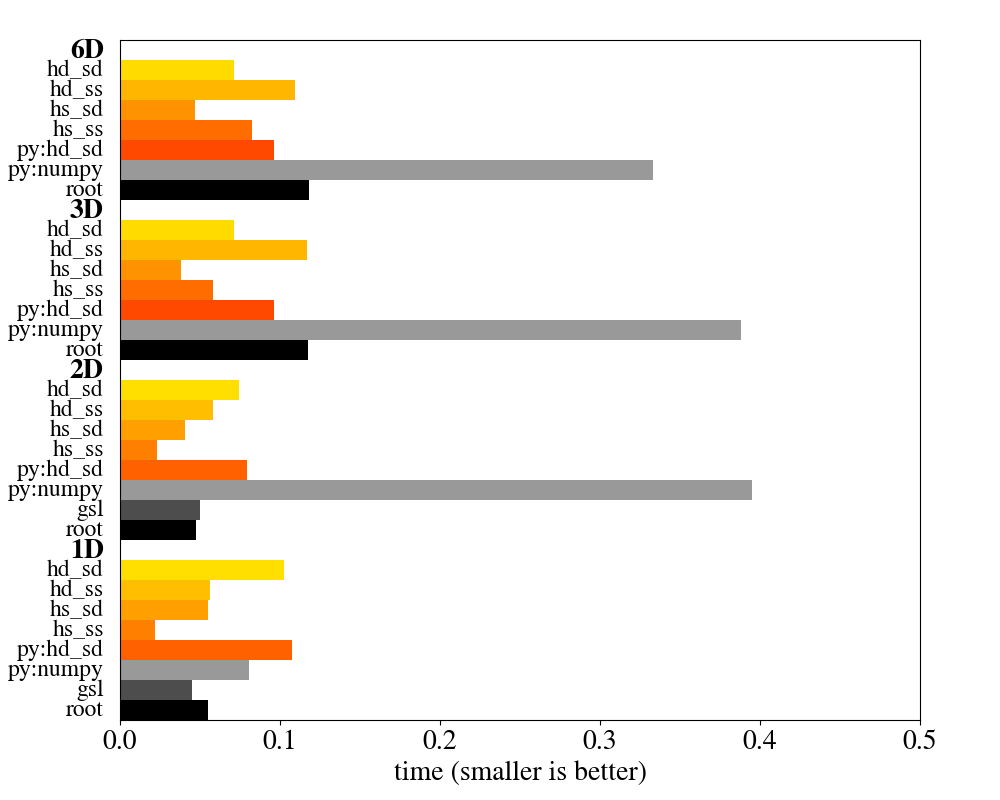
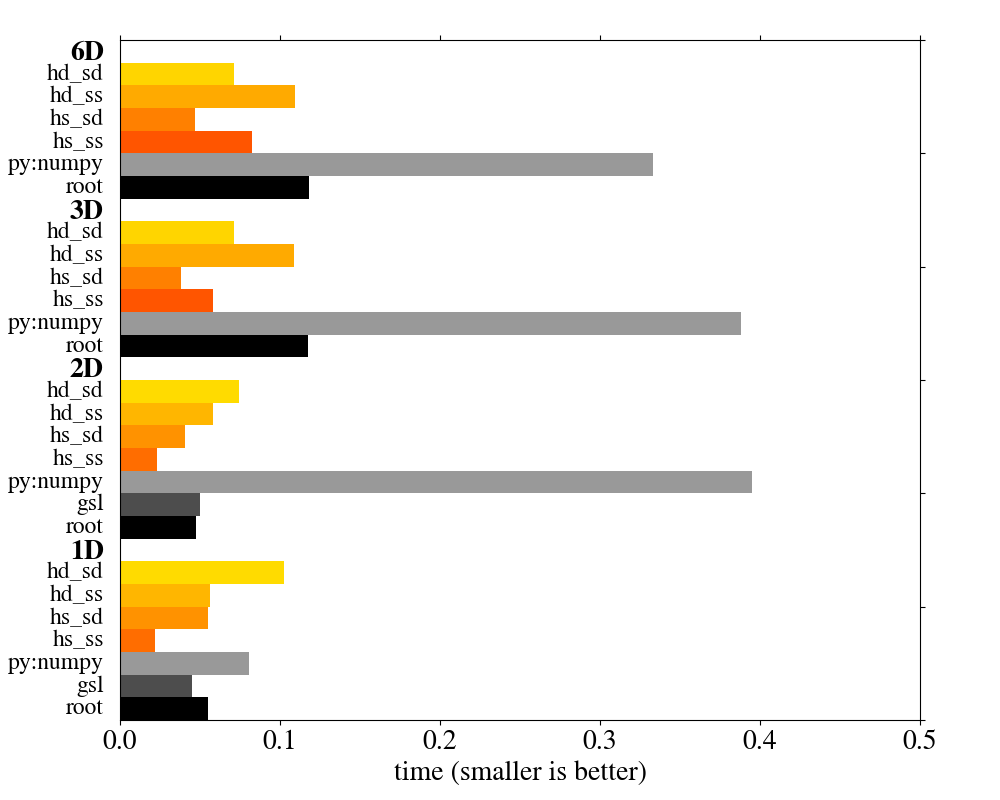
remove python

Changed region(s): [[0.0, 0.0312, 0.775, 0.9062]]

diff --git a/README.md b/README.md
@@ -12,13 +12,11 @@ develop | [![Build Status Travis](https://travis-ci.org/HDembinski/histogram.svg
 3. Visual Studio 14 2015
 
 
-This `C++11` open-source library provides a state-of-the-art multi-dimensional [histogram](https://en.wikipedia.org/wiki/Histogram) class for the professional statistician and everyone who needs to count things. The library is **header-only**, if you don't need the Python module. Check out the [full documentation](http://hdembinski.github.io/histogram/doc/html/).
+This `C++11` open-source library provides a state-of-the-art multi-dimensional [histogram](https://en.wikipedia.org/wiki/Histogram) class for the professional statistician and everyone who needs to count things. The library is **header-only**. Check out the [full documentation](http://hdembinski.github.io/histogram/doc/html/). [Python bindings for this library are available](https://github.com/hdembinski/histogram-python).
 
 The histogram is very customisable through policy classes, but the default policies were carefully designed so that most users don't need to customize anything. In the standard configuration, this library offers a unique safety guarantee not found elsewhere: bin counts *cannot overflow* or *be capped*. While being safe to use, the library also has a convenient interface, is memory conserving, and faster than other libraries (see benchmarks).
 
-The histogram class comes in two variants which share a common interface. The *static* variant uses compile-time information to provide maximum performance, at the cost of runtime flexibility and potentially larger executables. The *dynamic* variant is a bit slower, but configurable at run-time and may produce smaller executables. Python bindings for the latter are included, implemented with [Boost.Python](https://www.boost.org/doc/libs/release/libs/python/).
-
-The histogram supports value semantics. Histograms can be added and scaled. Move operations and trips over the language boundary from C++ to Python and back are cheap. Histogram instances can be streamed from/to files and pickled in Python. [Numpy](http://www.numpy.org) is supported to speed up operations in Python: histograms can be filled with Numpy arrays at high speed (in most cases several times faster than numpy's own histogram function) and are convertible into Numpy array views without copying data.
+The histogram class comes in two variants which share a common interface. The *static* variant uses compile-time information to provide maximum performance, at the cost of runtime flexibility and potentially larger executables. The *dynamic* variant is a bit slower, but configurable at run-time and may produce smaller executables. This variant allows one to make dynamic frontends, such as the [Python frontend](https://github.com/hdembinski/histogram-python).
 
 My goal is to submit this project to [Boost](http://www.boost.org), that's why it uses the Boost directory structure and namespace. The code is released under the [Boost Software License](http://www.boost.org/LICENSE_1_0.txt).
 
@@ -27,8 +25,8 @@ Check out the [full documentation](http://hdembinski.github.io/histogram/doc/htm
 ## Features
 
 * Multi-dimensional histogram
-* Simple and convenient interface in C++ and Python
-* Static and dynamic implementation in C++ with common interface
+* Simple and convenient interface
+* Static and dynamic implementation with common interface
 * High dynamic range using [Boost.Multiprecision](https://www.boost.org/doc/libs/release/libs/multiprecision/): Counters cannot overflow or be capped (+)
 * Better performance than other libraries (see benchmarks for details)
 * Fast compilation thanks to modern template meta-programming using [Boost.Mp11](https://www.boost.org/doc/libs/release/libs/mp11/)
@@ -42,8 +40,6 @@ Check out the [full documentation](http://hdembinski.github.io/histogram/doc/htm
 * Support for adding and scaling histograms
 * Support for custom allocators
 * Optional serialization based on [Boost.Serialization](https://www.boost.org/doc/libs/release/libs/serialization/)
-* Optional Python-bindings that work with [Python-2.7 to 3.6](http://www.python.org)  with [Boost.Python](https://www.boost.org/doc/libs/release/libs/python/)
-* Optional [Numpy](http://www.numpy.org) support
 
 (+) In the standard configuration, if you don't use weighted increments.
 (++) If you don't use weighted increments, variance tracking come at zero cost. If you use weighted increments, extra space is reserved internally to keep track of a variance counter per bin. The conversion happens automatically and transparently.
@@ -51,35 +47,28 @@ Check out the [full documentation](http://hdembinski.github.io/histogram/doc/htm
 ## Dependencies
 
 * [Boost >= 1.66](http://www.boost.org) *header-only installation*
-* Optional: [CMake >= 3.2](https://cmake.org) [Python >= 2.7](http://www.python.org) [Numpy](http://www.numpy.org) [Boost.Python](https://www.boost.org/doc/libs/release/libs/python/) [Boost.Serialization](https://www.boost.org/doc/libs/release/libs/serialization/) [Boost.Iostreams](https://www.boost.org/doc/libs/release/libs/iostreams/)
+* Optional: [CMake >= 3.5](https://cmake.org) [Boost.Serialization](https://www.boost.org/doc/libs/release/libs/serialization/)
 
 ## Build instructions
 
-If you don't need the Python module and don't want to run the tests, there is nothing to build. Just copy the content of the include folder to a place where your project can find it.
+If you don't want to run the tests, there is nothing to build. Just copy the content of the include folder to a place where your project can find it.
 
-The Python module and the tests can be build with `b2` from the Boost project or `cmake`. If you are not a Boost developer, use `cmake`.
+The tests can be build with `b2` from the Boost project or `cmake`. If you are not a Boost developer, use `cmake`.
 
 ```sh
 git clone https://github.com/HDembinski/histogram.git
 mkdir build && cd build
 cmake ../histogram/build
-make # or 'make install'
+make
 ```
 
-To run the tests, do `make test`.
+To run the tests, do `make test` or `ctest -v` for more output.
 
-### Trouble-shooting when compiling with Python support
+## Code example
 
-If you compile the library with Python support (the default, when you compile at all) and have several versions of Python installed, `cmake` will use the Python interpreter that is accessible as `python` on your system, and will use the headers and libraries of this version. Please make sure that this is the same version that Boost.Python and Boost.Numpy were compiled against, otherwise you will get strange errors during compilation and/or at runtime! You can force `cmake` to pick a specific Python interpreter with the PYTHON_EXECUTABLE flag. For example, to force the use of `python3`, do: `cmake ../histogram/build -DPYTHON_EXECUTABLE=python3`
+The following stripped-down example was taken from the [Getting started](http://hdembinski.github.io/histogram/doc/html/histogram/getting_started.html) section in the documentation. Have a look into the docs to see the full version with comments and more examples.
 
-If you installed Boost with `brew` on OSX and have trouble with the build, have a look at this [Stackoverflow](https://stackoverflow.com/questions/33653001/unable-to-link-against-boost-python-on-os-x) question.
-
-## Code examples
-
-For the full version of the following examples with explanations, see
-the [Getting started](http://hdembinski.github.io/histogram/doc/html/histogram/getting_started.html) section in the documentation.
-
-Example 1: Fill a 1d-histogram in C++
+Example: Fill a 1d-histogram
 
 ```cpp
 #include <boost/histogram.hpp>
@@ -119,41 +108,6 @@ int main() {
 }
 ```
 
-Example 2: Fill a 2d-histogram in Python with data in Numpy arrays
-
-```python
-    import histogram as bh
-    import numpy as np
-
-    h = bh.histogram(bh.axis.regular(10, 0.0, 5.0, "radius", uoflow=False),
-                     bh.axis.circular(4, 0.0, 2 * np.pi, "phi"))
-
-    x = np.random.randn(1000)             # generate x
-    y = np.random.randn(1000)             # generate y
-    radius = (x ** 2 + y ** 2) ** 0.5
-    phi = np.arctan2(y, x)
-
-    h(radius, phi)
-
-    # access histogram counts (no copy)
-    count_matrix = np.asarray(h)
-
-    print count_matrix
-
-    # program output:
-    #
-    # [[37 26 33 37]
-    #  [60 69 76 62]
-    #  [48 80 80 77]
-    #  [38 49 45 49]
-    #  [22 24 20 23]
-    #  [ 7  9  9  8]
-    #  [ 3  2  3  3]
-    #  [ 0  0  0  0]
-    #  [ 0  1  0  0]
-    #  [ 0  0  0  0]]
-```
-
 ## Benchmarks
 
 Thanks to meta-programming and dynamic memory management, this library is not only safer, more flexible and convenient to use, but also faster than the competition. In the plot below, its speed is compared to classes from the [GNU Scientific Library](https://www.gnu.org/software/gsl), the [ROOT framework from CERN](https://root.cern.ch), and to the histogram functions in [Numpy](http://www.numpy.org). The orange to red items are different compile-time configurations of the histogram in this library. More details on the benchmark are given in the [documentation](http://hdembinski.github.io/histogram/doc/html/histogram/benchmarks.html)
@@ -168,7 +122,7 @@ Thanks to meta-programming and dynamic memory management, this library is not on
 
 ## Rationale
 
-There is a lack of a widely-used free histogram class in C++. While it is easy to write a one-dimensional histogram, writing a general multi-dimensional histogram is not trivial. Even more so, if you want the histogram to be serializable and have Python-bindings and support Numpy. In high-energy physics, the [ROOT framework](https://root.cern.ch) from CERN is widely used. This histogram class is designed to be more convenient, flexible, and faster than the equivalent ROOT histograms. It is easy to integrate in your project without adding a huge dependency; you only need Boost. Finally, this library comes in a clean and modern C++11 design which follows the STL and Boost styles, and the general advice given by popular C++ experts ([Meyers](http://www.aristeia.com/books.html), [Sutter and Alexandrescu](http://www.gotw.ca/publications/c++cs.htm), and others).
+There is a lack of a widely-used free histogram class in C++. While it is easy to write a one-dimensional histogram, writing a general multi-dimensional histogram is not trivial. In high-energy physics, the [ROOT framework](https://root.cern.ch) from CERN is widely used. This histogram class is designed to be more convenient, flexible, and faster than the equivalent ROOT histograms. It is easy to integrate in your project if you already use Boost. The library comes in a modern C++11 design which follows the STL and Boost styles, and the general advice given by popular C++ experts ([Meyers](http://www.aristeia.com/books.html), [Sutter and Alexandrescu](http://www.gotw.ca/publications/c++cs.htm), and others).
 
 Read more about the design choices in the [documentation](http://hdembinski.github.io/histogram/doc/html/histogram/rationale.html)
 
